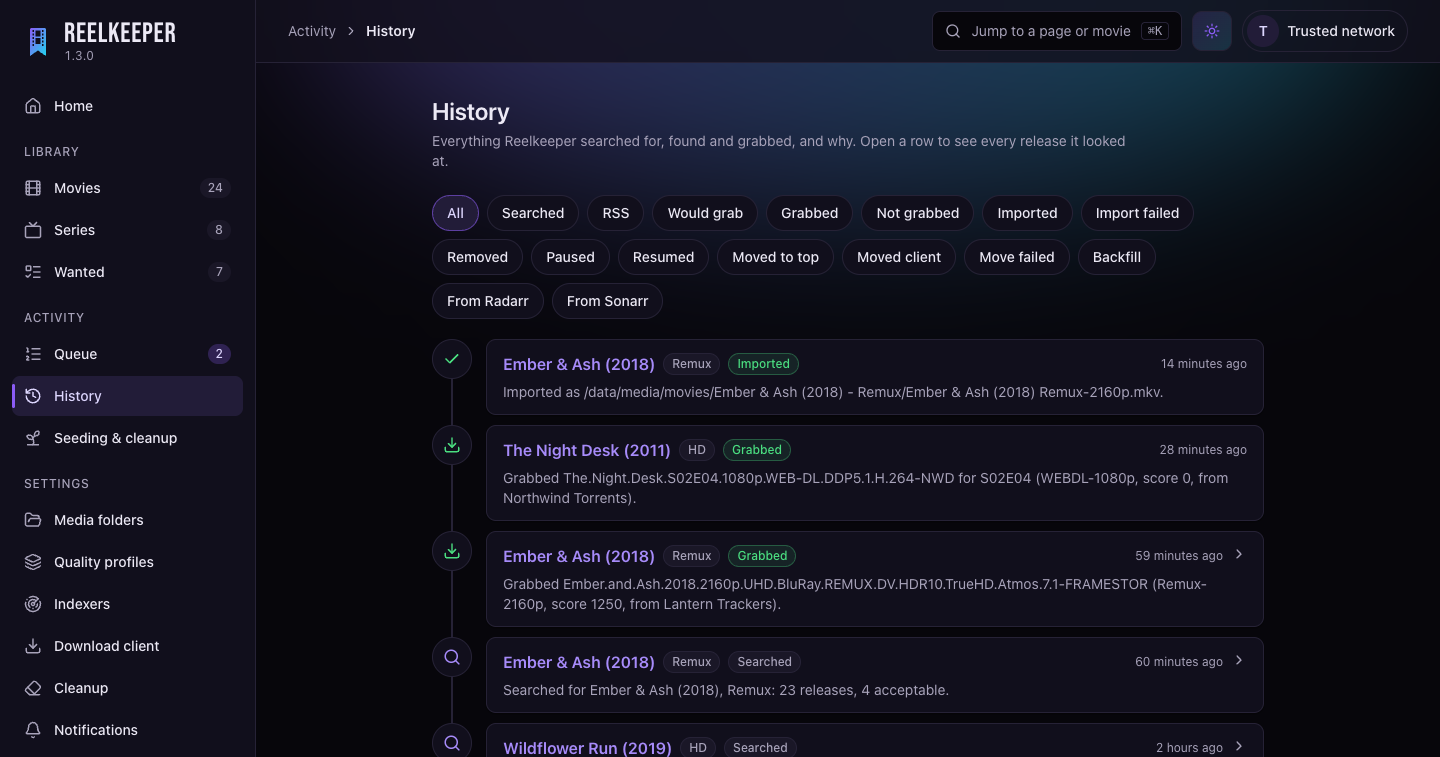
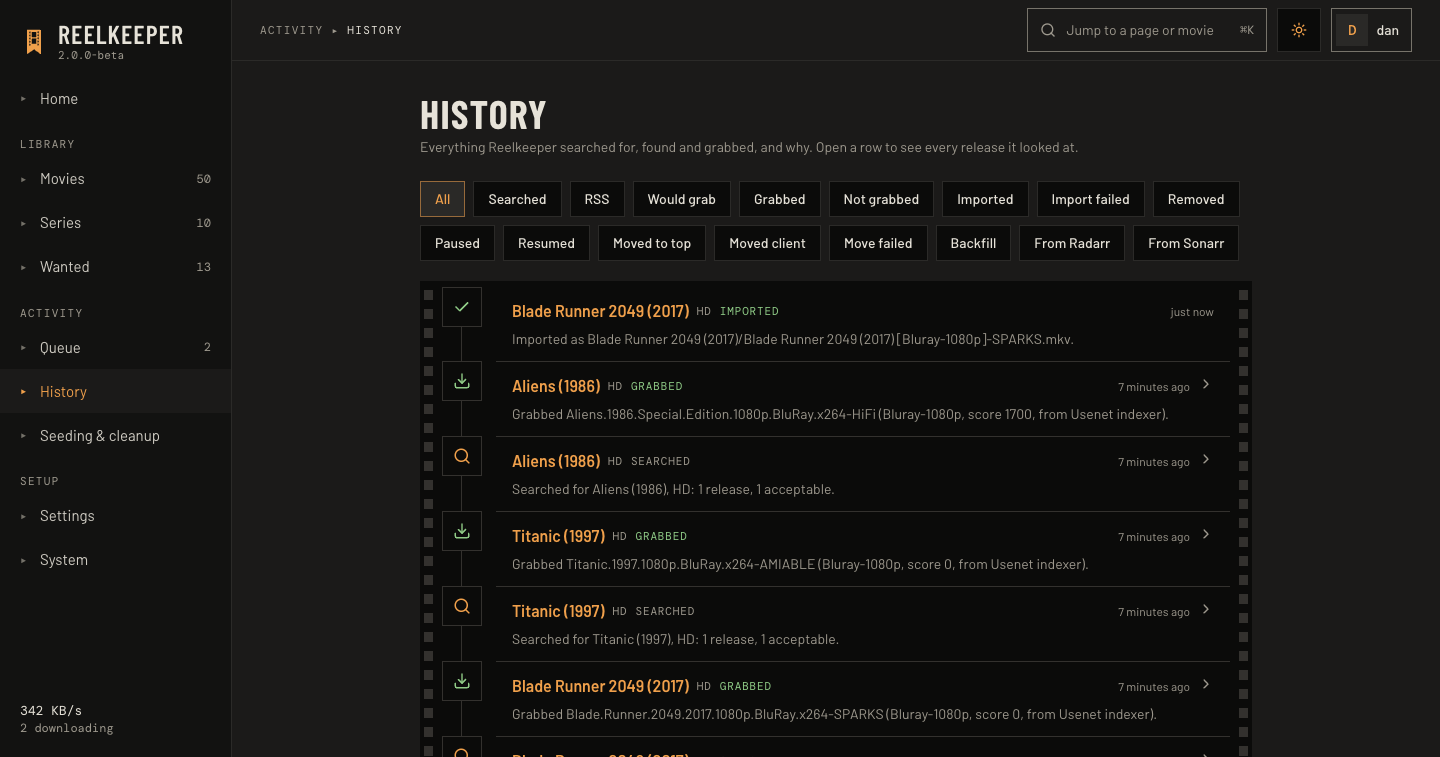
docs: README screenshots in the contact-sheet look, with real posters
All nine retaken with the same names and views (1440x757, device scale
1) from a demo library: real titles, posters and details from TMDB,
placeholder files found by a real scan, and grabs and imports through
the dev stack's made-up Usenet. The note under them says so.

diff --git a/docs/redesign-d.md b/docs/redesign-d.md
@@ -106,12 +106,7 @@ work stopped.
 
 ## Follow-ups
 
-- The README's screenshots (docs/screenshots/*.png) still show the old look.
-  Retake them from a real library (real posters) once this is merged.
-- Not seen in a screenshot, only covered by tests: a series' page and the
-  settings/system pages the mock data couldn't fill (Download client, Media
-  servers, Notifications, Security, Status, Tasks, Backups). Worth a look in
-  `just dev` with real data.
+- All checked now; see "Beta check" below.
 
 ## Beta check (2026-11-04, `just dev` on the dev stack)
 
@@ -150,7 +145,11 @@ below that on purpose.
 - [x] Settings → Download client, Media servers, Notifications, Security
       (with the fixes above; nothing else of the old look found)
 - [x] System → Status, Tasks, Backups (with the Tasks fix above)
-- [ ] README screenshots retaken from a library with real posters
+- [x] README screenshots retaken (same names and views, 1440×757, device
+      scale 1) from a library with real TMDB posters: placeholder files
+      found by a real scan, 20 movies added by hand, and grabs and imports
+      through the dev stack's made-up Usenet (fakenews and SABnzbd), with
+      Reelkeeper run as a container on the dev stack's network.
 
 ## Checking it visually
 

diff --git a/README.md b/README.md
@@ -173,7 +173,8 @@ does the same job, and uses the fact that everything lives together:
 | ![Editing a quality profile](docs/screenshots/profile.png) | ![The Movies page in the light theme](docs/screenshots/movies-light.png) |
 | **Quality profiles** as plain choices | **Light theme** |
 
-The titles and posters in these screenshots are made up for the demo.
+The library in these screenshots is a demo: real titles, posters and details
+from TMDB, placeholder files, and downloads from a made-up Usenet server.
 
 ## Getting started
 
